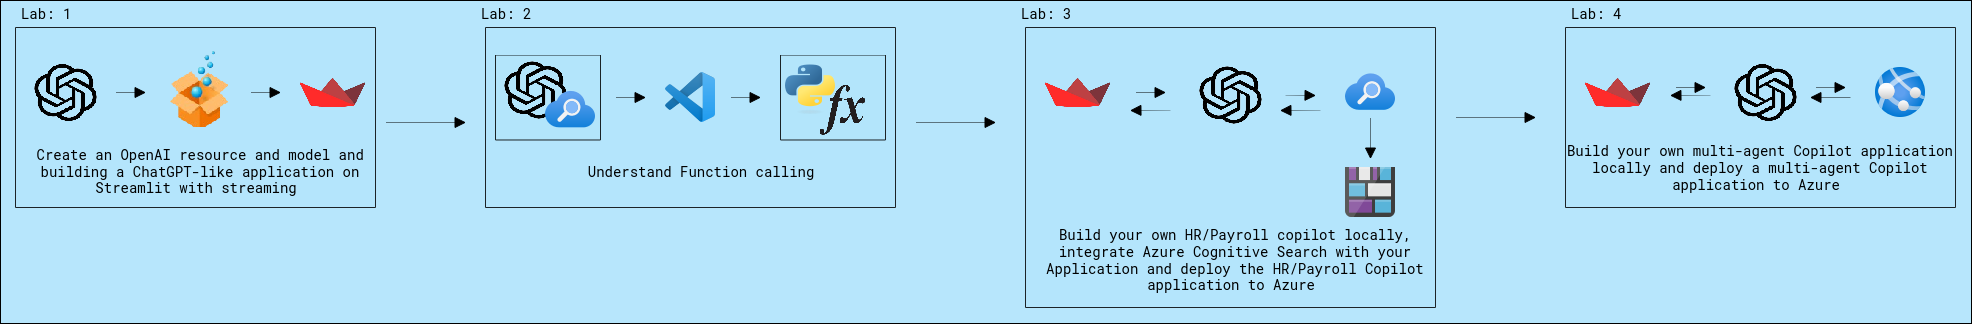
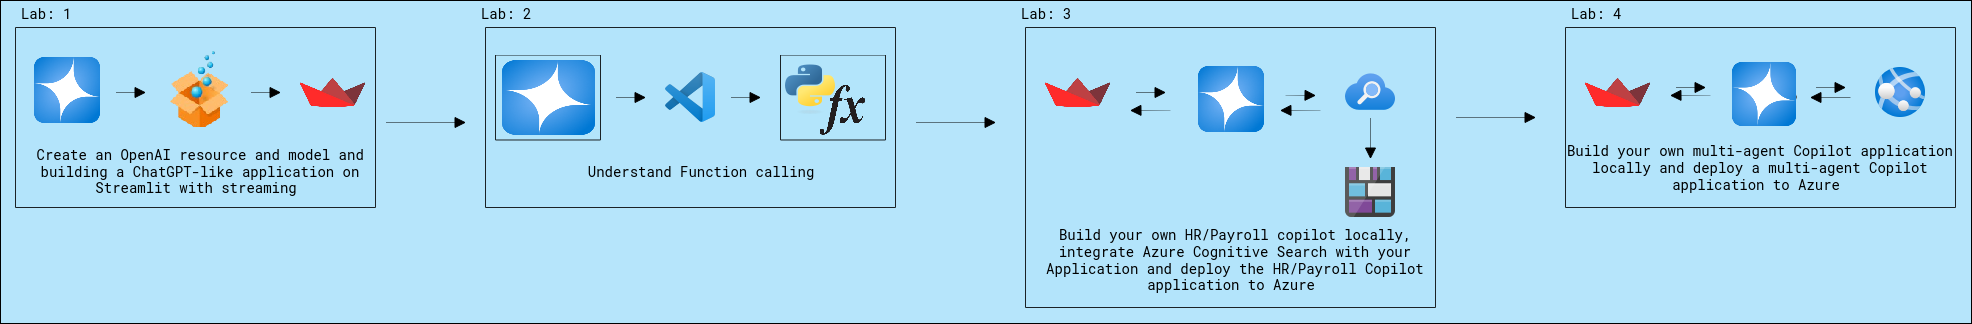
update

diff --git a/Instructions/Lab-1-v2.md b/Instructions/Lab-1-v2.md
@@ -5,6 +5,7 @@
 Building a chat application involves designing the user interface for seamless communication, implementing backend services for real-time message handling, and integrating with databases for storing chat histories, while ensuring robust security and scalability to handle user interactions effectively.In this lab, you will be setting up the Open AI resource and installing the application locally.
 
 ## Lab objectives
+
 In this lab, you will complete the following tasks:
 
 - Task 1: Create an OpenAI resource and model **(READ-ONLY)**
@@ -18,69 +19,69 @@ Refer to the link for more information. [Azure OpenAI](https://learn.microsoft.
 
 In this task, you will learn to create an Azure OpenAI resource in the Azure portal, configure its settings, and deploy the GPT-4 model in Azure AI Studio. This involves setting up the resource, navigating to Azure AI Studio, and specifying model deployment details.
 
- > **Note:** This task is **READ-ONLY**. The OpenAI setup is already configured for your environment.
+> **Note:** This task is **READ-ONLY**. The OpenAI setup is already configured for your environment.
 
 1. In the Azure portal, search for **OpenAI** **(1)** in the top search box, then select **Azure OpenAI** **(2)** under services.
 
    ![](../media/openai8.png "Azure OpenAI")
-   
+
 1. On the Azure AI Services page, select **Azure OpenAI (1)** from the menu on the left, then click **Create (2)**. button to start the process of setting up a new Azure OpenAI resource.
 
    ![](../media/openai_create1.png "Azure OpenAI")
-   
+
 1. In the **Create Azure OpenAI** pane under the **Basics** tab, Configure the details for your new resource, such as selecting the subscription, resource group, region and other required details.
 
-   | Setting  | Value |
-   -----------|---------
-   | Subscription | Default (1)|
+   | Setting        | Value                                                                   |
+   | -------------- | ----------------------------------------------------------------------- |
+   | Subscription   | Default (1)                                                             |
    | Resource group | **copilot-openai-<inject key="Deployment ID" enableCopy="false"/>** (2) |
-   | Region | **East US** (3) |
-   | Name   | **copilot-openai-<inject key="Deployment ID" enableCopy="false"/>** (4) |
-   | Pricing Tier | **Standard S0** (5) |
+   | Region         | **East US** (3)                                                         |
+   | Name           | **copilot-openai-<inject key="Deployment ID" enableCopy="false"/>** (4) |
+   | Pricing Tier   | **Standard S0** (5)                                                     |
 
    ![](../media/L1-T1-S3.png "Azure OpenAI")
-   
+
 1. Accept the default settings for the Network and Tags tabs without making any changes. Click on **Next** to continue to the next step in the creation process.
 
 1. In the **Review + Submit** pane, ensure that all validation checks have passed. After confirming that there are no errors, click on the **Create** button to finalize and start the deployment of your Azure OpenAI resource.
 
-     > **Note:** This task is **READ-ONLY**. The OpenAI setup is already configured for your environment. Please **DO NOT** click on **Create**. 
+   > **Note:** This task is **READ-ONLY**. The OpenAI setup is already configured for your environment. Please **DO NOT** click on **Create**.
 
    ![](../media/L1-T1-S5.png "Azure OpenAI")
-   
+
 1. The deployment process will take approximately 5 minutes to complete. Once it’s finished, click on **Go to Resource** to access and manage your newly created Azure OpenAI resource.
 
    ![](../media/L1-T1-S6.png "Azure OpenAI")
-   
-1. In the Azure OpenAI resource pane, click on **Go to Azure OpenAI Studio** to navigate to the Azure AI Studio, where you can further configure and use your OpenAI models.
 
-   ![](../media/L1-T1-S7.png "Azure OpenAI")
-   
+1. In the Azure OpenAI resource pane, click on **Go to Azure AI Foundry portal** to navigate to the Azure AI Studio, where you can further configure and use your OpenAI models.
+
+   ![](../media/L1-T1-S7-1.png "Azure OpenAI")
+
 1. In the prompt titled **Discover an even better Azure AI Studio experience**, click **Close**.
 
    ![](../media/pop-upclose.png)
 
 1. In the left navigation pane, click on **Deployments (1)**, then click on **+ Deploy model** **(2)**. Select **Deploy base Model** from the options presented.
 
-   ![](../media/deploy-1.jpg)
+   ![](../media/deploy-1-1.png)
 
 1. In the **Select a model** window, choose **gpt-4 (1)** from the available options, and then click on **Confirm (2)** to proceed with the model selection.
 
    ![](../media/new11.png)
-   
+
 1. On the **Deploy Model** tab, input the required details such as Deployment name, Model version, Deployment type, Tokens per Minute Rate Limit, and enable dynamic quota. Once all fields are filled, Click on **Deploy** (6).
 
-   | Setting  | Value |
-   -----------|---------
-   | Deployment name | **copilot-gpt (1)** |
-   | Model version | **0613 (Default) (2)** |
-   | Deployment type | **Standard (3)** |
-   | Tokens per Minute Rate Limit (thousands) | **15K (4)** |
-   | Enable dynamic quota | **Enabled (5)** |
+   | Setting                                  | Value                  |
+   | ---------------------------------------- | ---------------------- |
+   | Deployment name                          | **copilot-gpt (1)**    |
+   | Model version                            | **0613 (Default) (2)** |
+   | Deployment type                          | **Standard (3)**       |
+   | Tokens per Minute Rate Limit (thousands) | **15K (4)**            |
+   | Enable dynamic quota                     | **Enabled (5)**        |
 
-     ![](../media/new9.png)
-   
-### Task 2: Building a ChatGPT-like application on Streamlit with streaming  
+   ![](../media/new9.png)
+
+### Task 2: Building a ChatGPT-like application on Streamlit with streaming 
 
 In this task, you will set up an Azure OpenAI resource, deploy models like GPT-4, and integrate the required API keys. After configuring the application with these details, you will run and test a ChatGPT-like app to verify its functionality, demonstrating how to use Azure OpenAI models in a practical application.
 
@@ -128,7 +129,7 @@ In this task, you will set up an Azure OpenAI resource, deploy models like GPT-4
 
    ![](../media/aisimg7.png)
 
-8. In the management portal, select **Connected resources (1)** from left menu, select **copilot-openai-<inject key="Deployment ID" enableCopy="false"/> (2)** Azure OpenAI resource and use the **Copy (3)** option to copy the API Key. Note it down safely as you will be using this value further in this task. 
+8. In the management portal, select **Connected resources (1)** from left menu, select **copilot-openai-<inject key="Deployment ID" enableCopy="false"/> (2)** Azure OpenAI resource and use the **Copy (3)** option to copy the API Key. Note it down safely as you will be using this value further in this task.
 
    ![](../media/aisimg8.png)
 
@@ -136,7 +137,7 @@ In this task, you will set up an Azure OpenAI resource, deploy models like GPT-4
 
    ![](../media/aisimg9.png)
 
-10. From the details pane, copy the **Target (1)** and **API Key (2)** values using the copy option. Note it down safely as you will be using this value further in this task. 
+10. From the details pane, copy the **Target (1)** and **API Key (2)** values using the copy option. Note it down safely as you will be using this value further in this task.
 
     ![](../media/aisimg10.png)
 
@@ -150,33 +151,32 @@ In this task, you will set up an Azure OpenAI resource, deploy models like GPT-4
 
 12. In the `secrets.env` file, replace the following values. Press **CTRL+S** to save the file.
 
-   | **Variables**                     | **Values**                                                    |
-   | --------------------------------- |---------------------------------------------------------------|
-   | **AZURE_OPENAI_API_KEY**          | **<inject key="OpenAIKey" enableCopy="true"/>**               |
-   | **AZURE_OPENAI_CHAT_DEPLOYMENT**        | Replace the value with your **YOUR_GPT_MODEL** name that is  **copilot-gpt**          |
-   | **AZURE_OPENAI_ENDPOINT** | **<inject key="OpenAIEndpoint" enableCopy="true"/>**        |
+| **Variables**                    | **Values**                                                                  |
+| -------------------------------- | --------------------------------------------------------------------------- |
+| **AZURE_OPENAI_API_KEY**         | **<inject key="OpenAIKey" enableCopy="true"/>**                             |
+| **AZURE_OPENAI_CHAT_DEPLOYMENT** | Replace the value with your **YOUR_GPT_MODEL** name that is **copilot-gpt** |
+| **AZURE_OPENAI_ENDPOINT**        | **<inject key="OpenAIEndpoint" enableCopy="true"/>**                        |
 
-   ![](../media/img68.png)
+![](../media/img68.png)
 
-   > **Note :** If you're unable to see the full **Values** section in the table, click on the three dots (ellipsis) in the top right corner of your browser and try reducing the zoom level for better visibility.
-   
-   ![](../media/zoom.png)
+> **Note :** If you're unable to see the full **Values** section in the table, click on the three dots (ellipsis) in the top right corner of your browser and try reducing the zoom level for better visibility.
+
+![](../media/zoom.png)
 
 13. Navigate back to File Explorer and open `chatgpt.py` with **Visual Studio Code** to view the code to build a ChatGPT-like app.
 
-    ![](../media/img70.png) 
- 
+    ![](../media/img70.png)
+
 14. Next, click on the **Eclipse Button** at the top of the screen, then select **Terminal** from the dropdown menu and click on **New Terminal** to open a new terminal window.
 
-    ![](../media/img69.png) 
-
+    ![](../media/img69.png)
 
 15. Run the following command in the terminal to change the directory:
 
     ```
     cd C:\LabFiles\OpenAIWorkshop\scenarios\incubations\copilot\ChatGPT
     ```
-   
+
 16. To run the application from the command line, enter the following command in the terminal:
 
     > **Note**: You can enter your email address below to get notifications. If not, please leave this field blank and click on **Enter**.
@@ -184,11 +184,11 @@ In this task, you will set up an Azure OpenAI resource, deploy models like GPT-4
     ```
     streamlit run chatgpt.py
     ```
-   
+
 17. Once the command `streamlit run chatgpt.py` has executed, a demo application will be launched and opened in your web browser, hosted locally on your machine.
 
     ![](../media/img71.png "Azure OpenAI")
-   
+
     ![](../media/img72.png "Azure OpenAI")
 
 18. Explore the app by running a few queries. Congratulations! You've built your own ChatGPT-like application in 50 lines of code.
@@ -196,7 +196,7 @@ In this task, you will set up an Azure OpenAI resource, deploy models like GPT-4
     ![](../media/img73.png "Azure OpenAI")
 
     > **Note**: You may get a different response. please note chatgpt uses LLM and responses may vary everytime.
-  
+
 19. Navigate back to **VS Code** and stop the terminal by typing **ctrl + C**.
 
 20. Click the **Next** button located in the bottom right corner of this lab guide to continue with the next exercise.

diff --git a/Instructions/getting-started.md b/Instructions/getting-started.md
@@ -1,4 +1,4 @@
-# Build your own Intelligent HR Copilot with Azure Open AI
+# Build your own Intelligent HR Copilot with Azure OpenAI
 
 ### Overall Estimated Duration: 4 Hours
 
@@ -43,7 +43,7 @@ The architecture for this lab involves the following key components:
 
 ## Getting Started with the Lab
  
-Welcome to your Build your own Intelligent HR Copilot with Azure Open AI Workshop! We've prepared a seamless environment for you to explore and learn about Azure services. Let's begin by making the most of this experience:
+Welcome to your Build your own Intelligent HR Copilot with Azure OpenAI Workshop! We've prepared a seamless environment for you to explore and learn about Azure services. Let's begin by making the most of this experience:
  
 ## Accessing Your Lab Environment
  
@@ -78,12 +78,10 @@ Feel free to start, stop, or restart your virtual machine as needed from the **R
 1. After completing the task, hit the **Validate** button under Validation tab integrated within your lab guide. If you receive a success message, you can proceed to the next task, if not, carefully read the error message and retry the step, following the instructions in the lab guide.
 
    ![Inline Validation](../media/inline-validation-01.png)
+<!-- 1. You can also validate the task by navigating to the **Lab Validation** tab, from the upper right corner in the lab guide section.
 
-1. You can also validate the task by navigating to the **Lab Validation** tab, from the upper right corner in the lab guide section.
-
-   ![Lab Validation](../media/lab-validation-01.png)
-
-1. If you need any assistance, please contact us at labs-support@spektrasystems.com.
+   ![Lab Validation](../media/lab-validation-01.png) -->
+2. If you need any assistance, please contact us at labs-support@spektrasystems.com.
  
 ## Login to the Azure Portal
 
